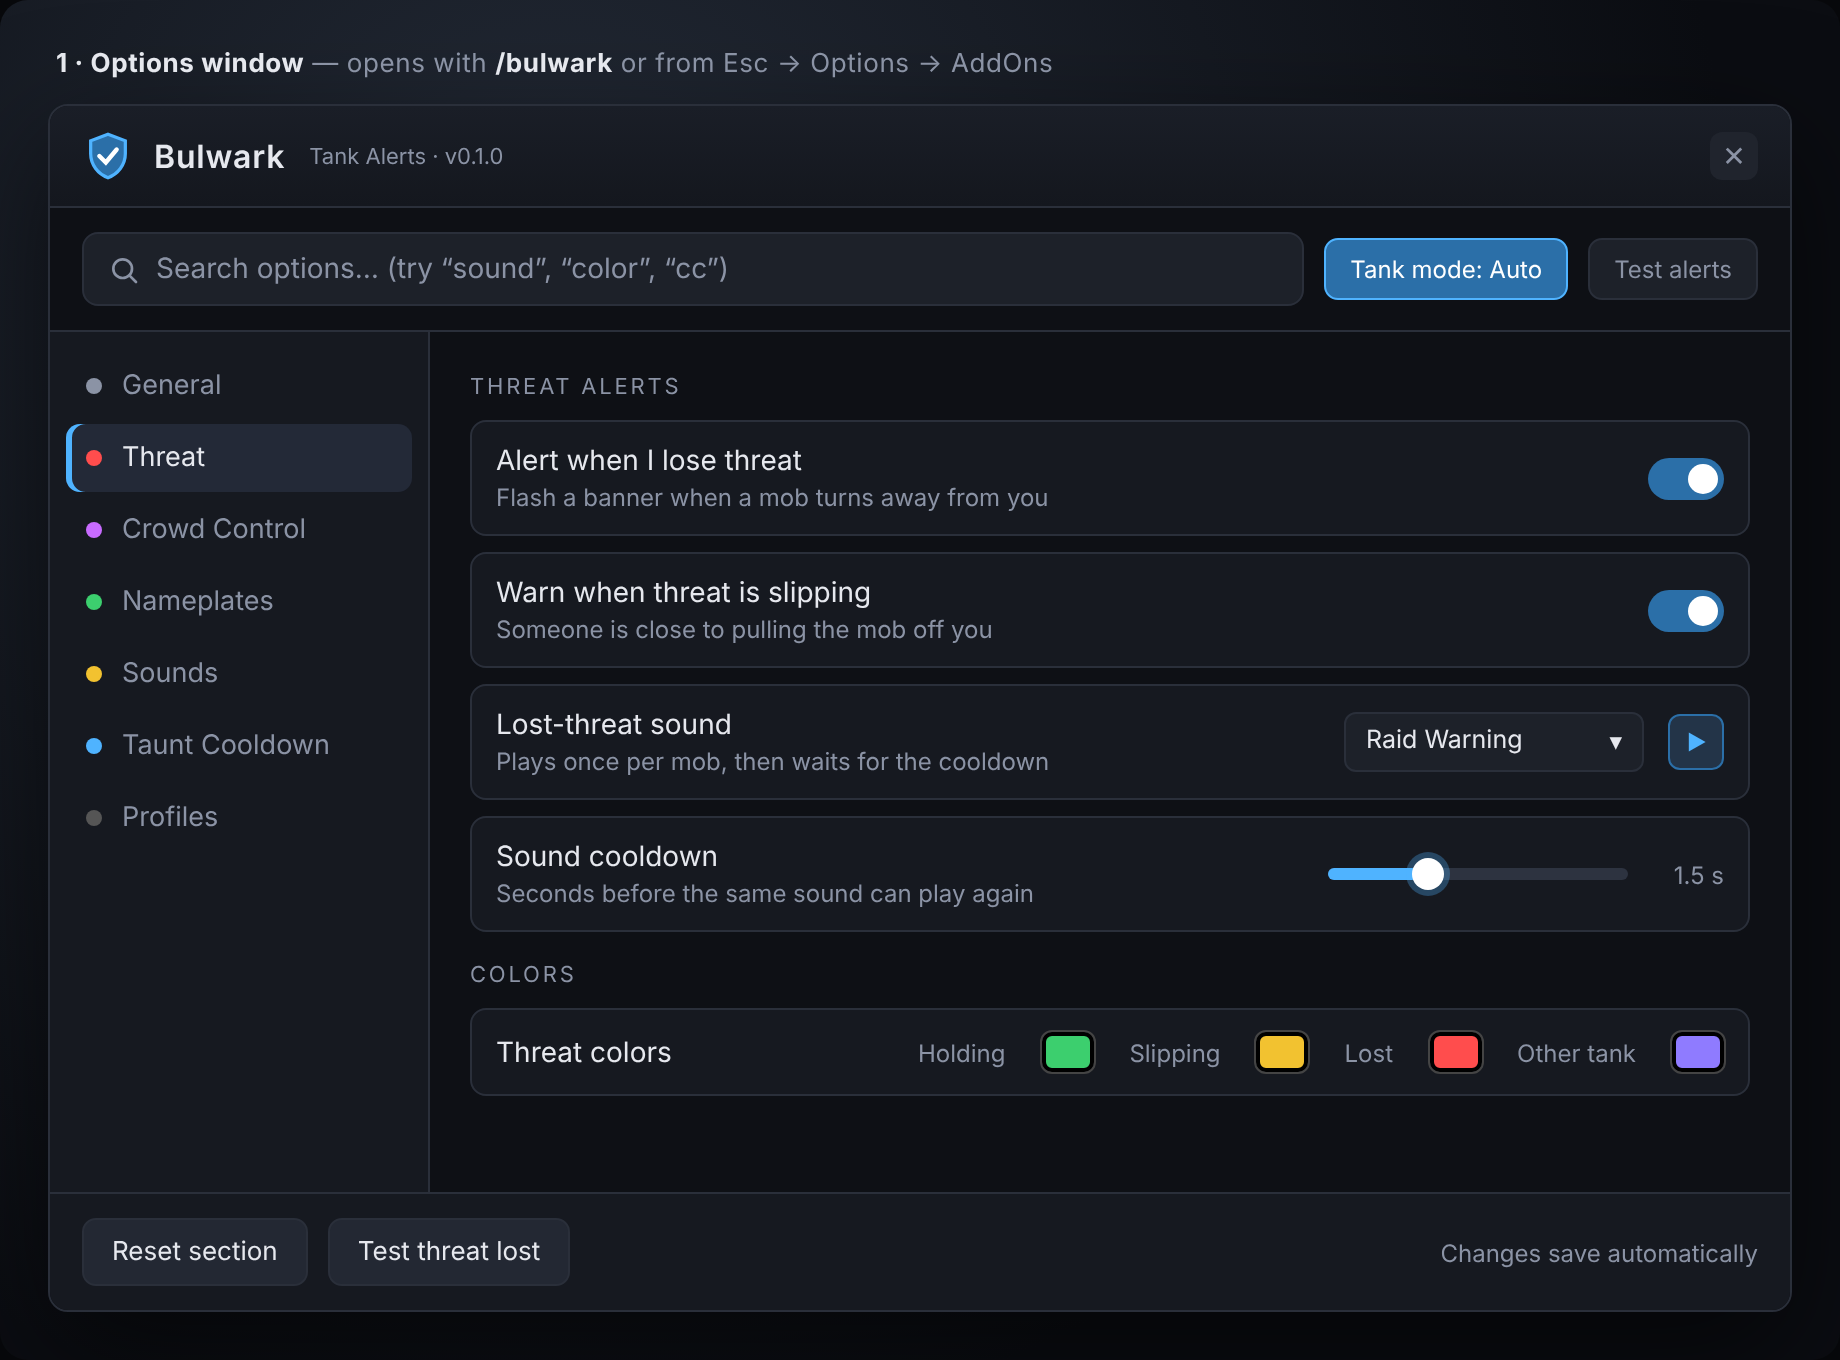
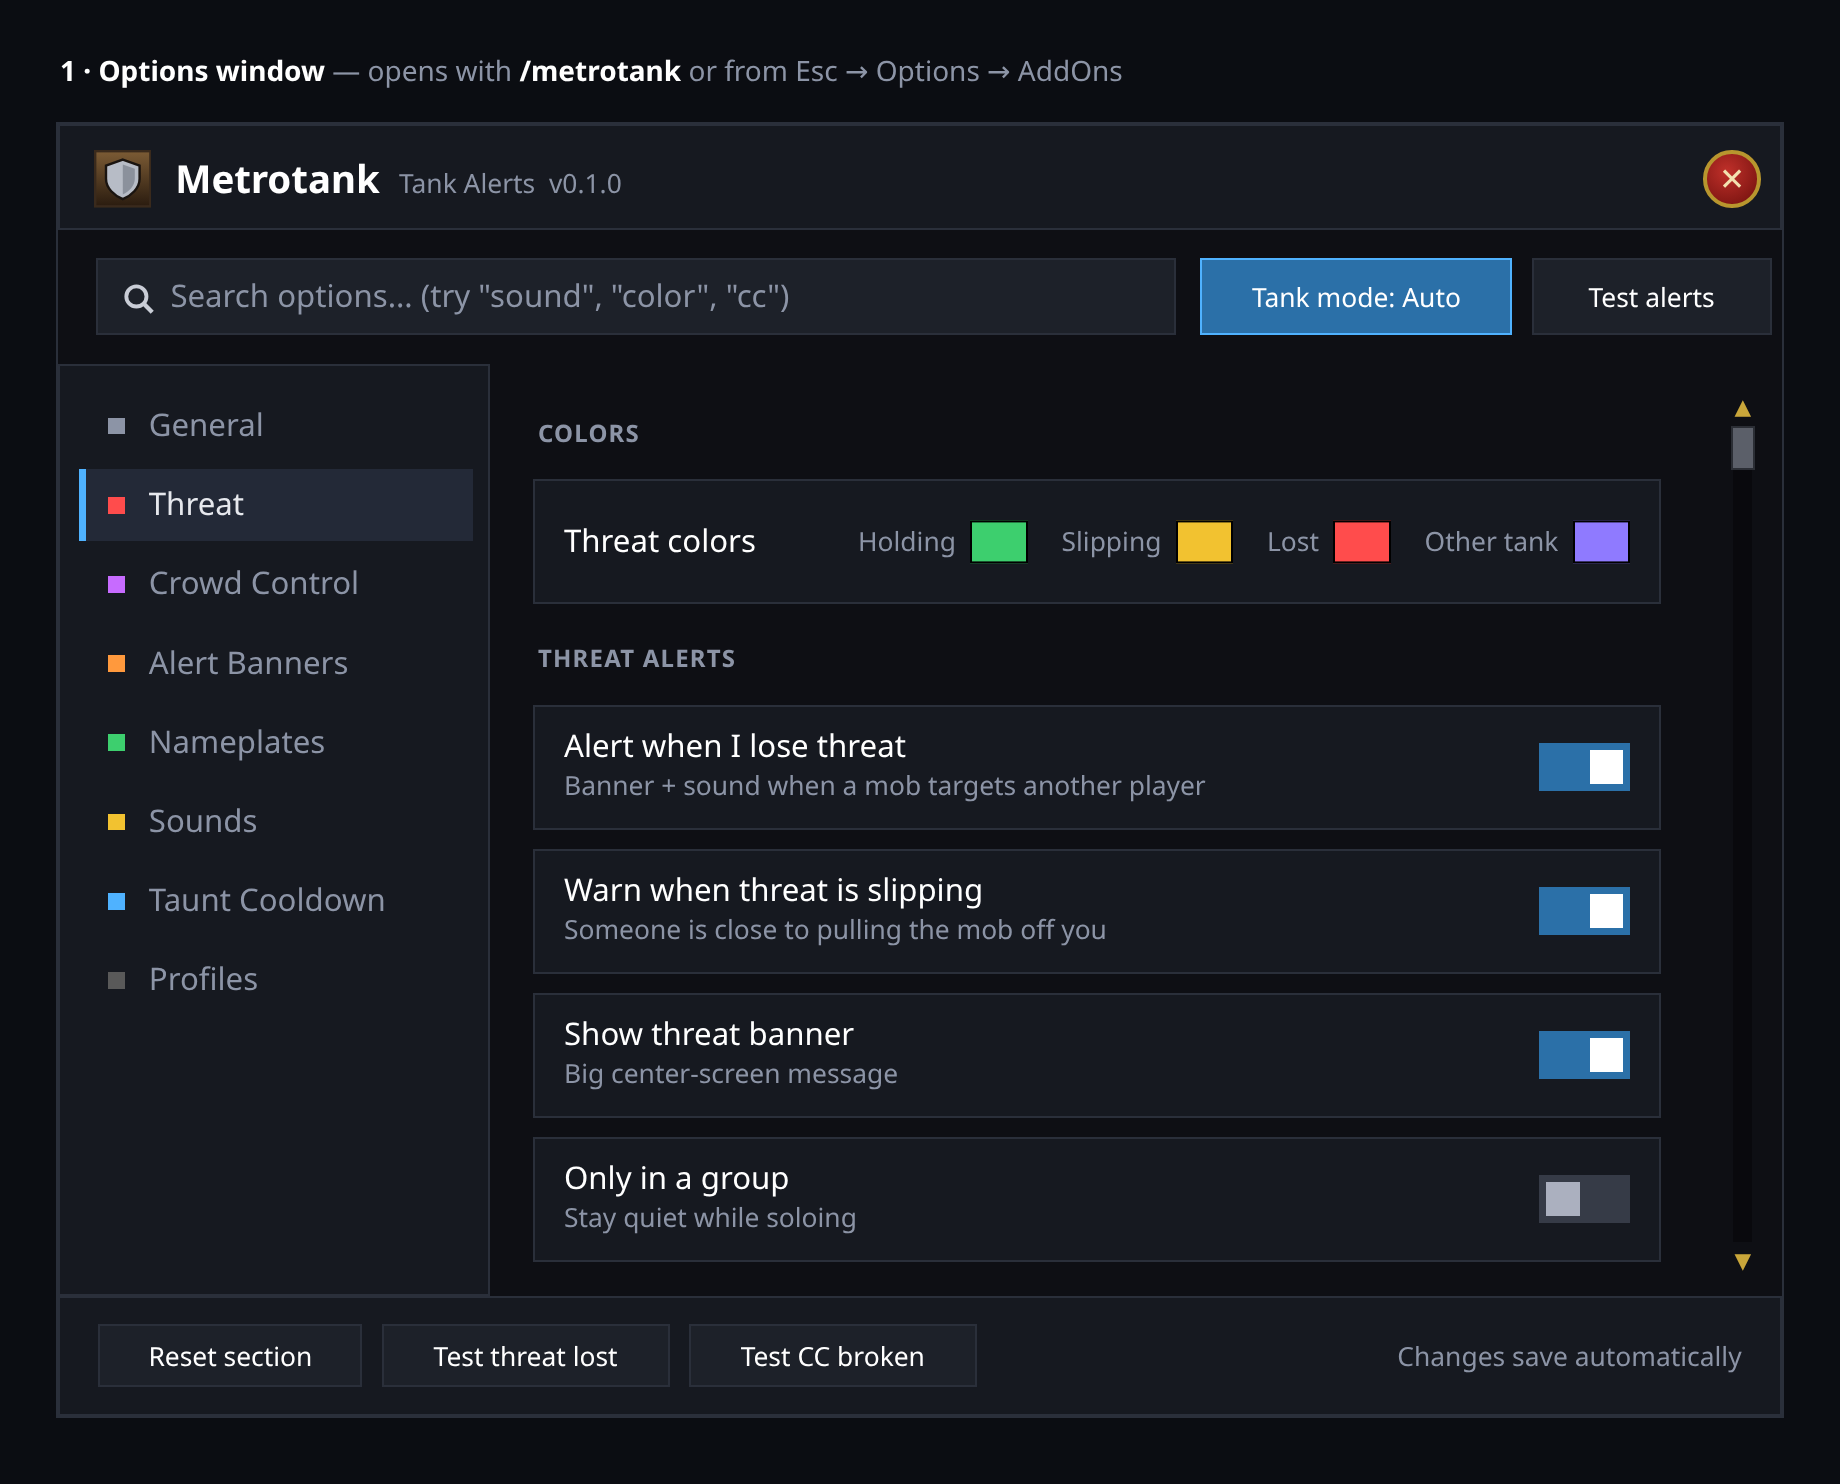
changed pictures, added movable dialogue option

diff --git a/README.md b/README.md
@@ -1,40 +1,48 @@
 # Metrotank — Tank Alerts for WoW Forever
 
-Metrotank is a tank addon for **World of Warcraft: Forever**. It does three things:
+Metrotank is a tank add-on for **World of Warcraft: Forever** designed to give an audio cue when threat is lost on an enemy mob. In addition to this, Metrotank also contains three additional features:
 
-1. **Threat lost:** a sound and a banner when a mob turns away from you, plus nameplate colors.
-2. **CC broken:** a ping sound and an orange plate when crowd control (Sheep, Sap, Shackle, Trap…) ends early.
-3. **Nameplate colors:** green (holding), yellow (slipping), red (lost), purple (other tank), violet (CC'd), orange (CC broken).
-
-The options window has a **search bar**: type `sound`, `color` or `cc` to find any setting.
+1. **Threat lost:** By default, a sound and a banner is used when a mob that originally targets the tank targets another player. 
+2. **CC broken:** A pinging sound and an orange plate is when crowd control(CC) (Sheep, Sap, Shackle, Trap…) ends early or is broken.
+3. **Nameplate colors (Beta):** There is a basic function for slightly modified Blizzard nameplates in the "Nameplates" tab. Green is for (targeting the tank), yellow (threat is slipping), red (threat is lost), purple (other or off-tank), violet (CC'd), orange (CC broken).
 
 ![Options window](docs/metrotank-mockup-1.png)
 ![Search](docs/metrotank-mockup-2.png)
 ![In-game alerts](docs/metrotank-mockup-3.png)
 
-> The images are design mockups. The real in-game window uses the same layout.
+> The images are preliminary designs and the options are subject to change. 
 
 ---
 
-## Install (for testing)
+## Installation Instructions 
 
-1. Download this repo (green **Code** button → **Download ZIP**) and unzip it.
-2. Rename the folder to exactly **`Metrotank`** (GitHub adds `-main` to the end).
-3. Move it to:
-   `World of Warcraft\_forever_\Interface\AddOns\Metrotank`
-   *(Check which `_something_` folder WoW Forever created on your PC. Don't guess: open it and look.)*
-4. Inside it you should see `Metrotank.toc` straight away, not another folder.
-5. Start the game. On the character screen, open **AddOns** and make sure Metrotank is checked.
+
+1. Download the repo (green **Code** button → **Download ZIP**) and unzip it.
+2. Rename the folder to exactly **`Metrotank`** (GitHub adds `-main` to the end and must be deleted).
+3. Move the `Metrotank` folder to:
+   Windows: `World of Warcraft\_forever_\Interface\AddOns\`
+   Linux users using Proton (Steam): `.steam/steam/compatdata/(number associated with World of Warcraft)/pfx/drive_c/Program_Files(x86)/World_of_Warcraft/_forever/Interface/AddOns/Metrotank
+4. Start the game. On the character screen, open **AddOns** and make sure Metrotank is checked.
+**Note: If these instructions do not work, please provide feedback. 
+
+This addon currently is NOT supported on Curseforge, Wago, WoWup etc. Updates to the addon will appear in this Github repository (https://github.com/MetrobusDesigns/Metrotank). 
 
 ### If the addon shows as "Out of date"
-Type this in chat: `/dump select(4, GetBuildInfo())`
-Put the number it prints on the first line of `Metrotank.toc` (`## Interface: 16001`).
+- Re-download the addon from this Github repository (https://github.com/MetrobusDesigns/Metrotank)
+OR 
+
+- Type this in chat: `/dump select(4, GetBuildInfo())`
+ - Put the number it prints on the first line of `Metrotank.toc` (`## Interface: 16001`).
 
 ---
+## Options Window
 
+-- There are over 100+ sounds to choose from. Many of the buttons are self-explanatory and can be toggled on and off. 
+-- The tank dialogue box warnings can be moved and resized in the "Alert Banners" tab. 
+---
 ## Commands
 
-| Command | What it does |
+| While in-game, type in the chat area |
 |---|---|
 | `/metrotank` or `/mtk` | Open or close the options window |
 | `/metrotank test` | Preview the threat-lost banner and sound |
@@ -47,15 +55,15 @@ Tip: target an enemy before `/metrotank test` to preview the colors on its namep
 
 ---
 
-## How it works (and its limits on WoW Forever)
+## How it works 
 
 WoW Forever uses the same addon rules as retail **Midnight**. Inside dungeons and raids,
 some combat values are **"secret"**: an addon can *show* them but can't *read* or compare them.
 
 | Feature | Open world | Dungeons / raids |
 |---|---|---|
-| Plate colors (hold / slip / lost) | ✅ | ✅ (the game colors them for us) |
-| "Other tank has it" color | ✅ | ⚠ shows as "lost" |
+| Plate colors (hold / slip / lost) | ✅ | ✅ |
+| "Other or off-tank has it" color | ✅ | ⚠ shows as "lost" |
 | Threat-lost **sound + banner** | ✅ | ✅ on your **target**, ⚠ maybe not on other mobs |
 | CC ended ping | ✅ "broken" vs "expired" | ✅ but only "CC ENDED" (can't tell why) |
 | Taunt cooldown on banner | ✅ | ✅ swipe shows; "ready" text may not |
@@ -65,12 +73,12 @@ tracking uses the new `HARMFUL|CROWD_CONTROL` aura filter instead.
 
 ---
 
-## Testing checklist
+## Testing checklist for beta testers
 
 - [ ] Addon loads with no red error (install **BugSack + BugGrabber** to catch errors)
 - [ ] `/metrotank` opens the window; the search filters rows
 - [ ] Open world: pull a mob, let a friend out-threat you → red plate + sound + banner
-- [ ] Open world: friend sheeps a mob, you hit it → orange plate + 2 pings + "CC BROKEN"
+- [ ] Open world: friend sheeps(CC's) a mob, you hit it → orange plate + 2 pings + "CC BROKEN"
 - [ ] Dungeon: plates still change color in combat
 - [ ] Dungeon: `/metrotank debug` and note what prints when you lose threat
 - [ ] Works with your nameplate addon (Blizzard, Plater, Platynator, EllesmereUI)
